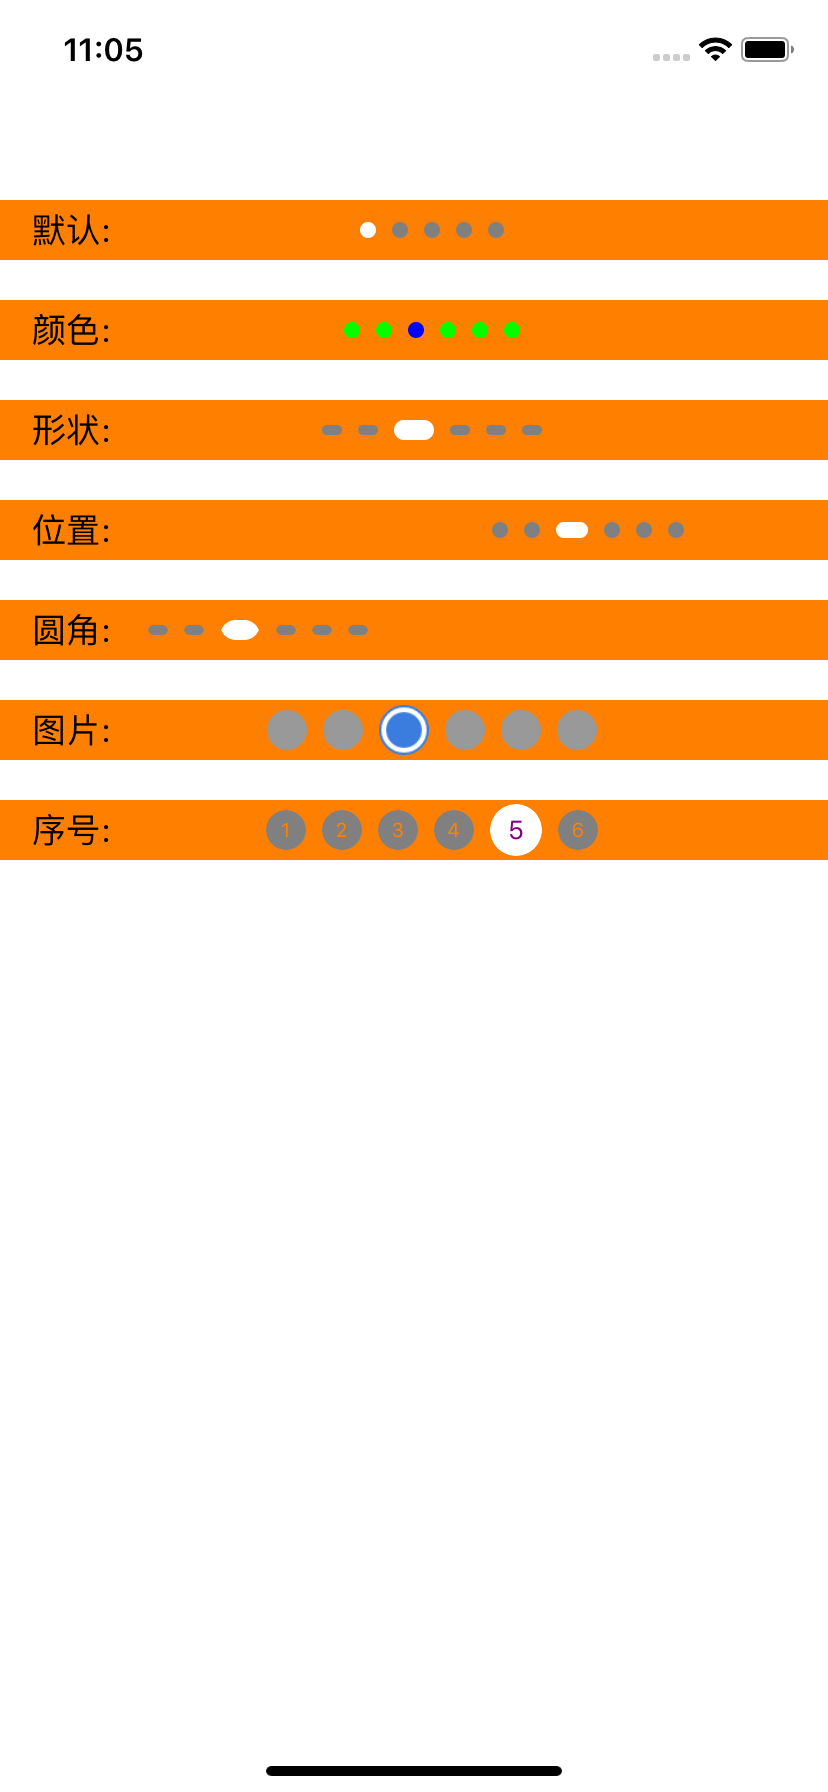
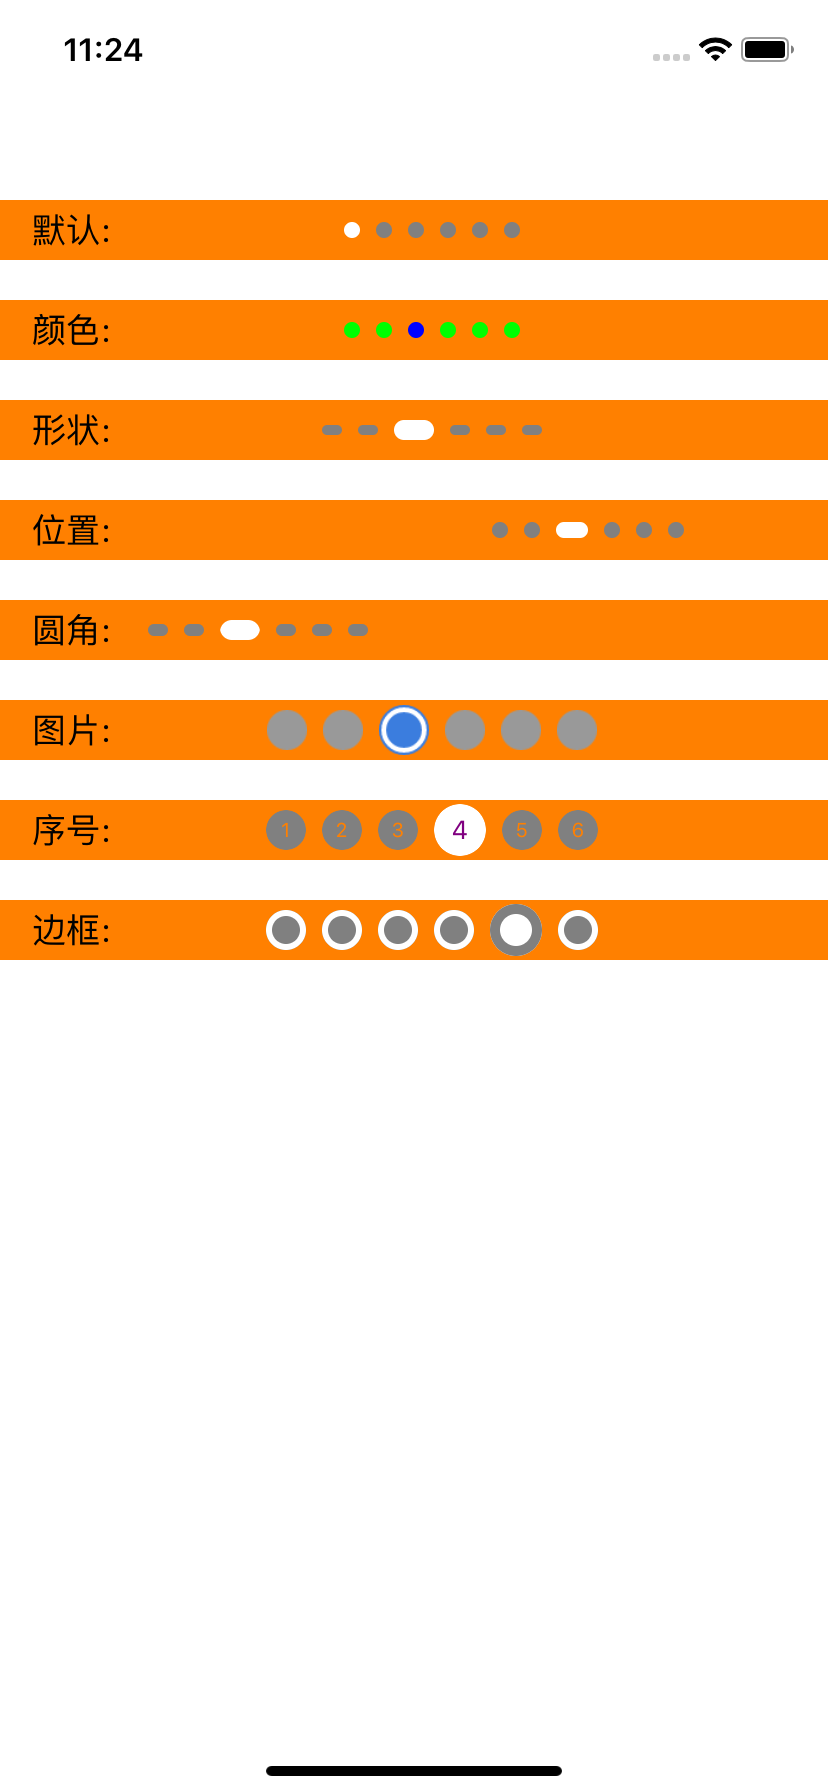
page添加边框的状态,形成同心圆效果

Changed region(s): [[0.0, 0.4375, 1.0, 0.5625], [0.4227, 0.125, 0.6341, 0.1562], [0.1208, 0.0, 0.1812, 0.0312]]

diff --git a/MZPageControl/MZPageControl/MZPageControl.m b/MZPageControl/MZPageControl/MZPageControl.m
@@ -43,11 +43,18 @@
     self.alignment = AlignmentCenter;
     self.pageIndicatorTintColor = [UIColor grayColor];
     self.currentPageIndicatorTintColor = [UIColor whiteColor];
+    
     self.showPageNumber = NO;
     self.pageNumberColor = [UIColor lightGrayColor];
     self.pageNumberFont = [UIFont systemFontOfSize:8.0];
     self.currentPageNumberColor = [UIColor blackColor];
     self.currentPageNumberFont = [UIFont systemFontOfSize:8.0];
+    
+    self.showPageBorder = NO;
+    self.pageBorderColor = [UIColor whiteColor];
+    self.pageBorderWidth = 1.0;
+    self.currentPageBorderColor = [UIColor grayColor];
+    self.currentPageBorderWidth = 1.0;
 }
 
 - (void)setNumberOfPages:(NSInteger)numberOfPages {
@@ -60,6 +67,7 @@
     [self changeColor];
     [self updateFrame];
     [self updatePageNumber];
+    [self updatePageBorder];
 }
 
 - (void)setPageSpacing:(CGFloat)pageSpacing {
@@ -137,6 +145,31 @@
 - (void)setCurrentPageNumberFont:(UIFont *)currentPageNumberFont {
     _currentPageNumberFont = currentPageNumberFont;
     [self updatePageNumber];
+}
+
+- (void)setShowPageBorder:(BOOL)showPageBorder {
+    _showPageBorder = showPageBorder;
+    [self updatePageBorder];
+}
+
+- (void)setPageBorderColor:(UIColor *)pageBorderColor {
+    _pageBorderColor = pageBorderColor;
+    [self updatePageBorder];
+}
+
+- (void)setPageBorderWidth:(CGFloat)pageBorderWidth {
+    _pageBorderWidth = pageBorderWidth;
+    [self updatePageBorder];
+}
+
+- (void)setCurrentPageBorderColor:(UIColor *)currentPageBorderColor {
+    _currentPageBorderColor = currentPageBorderColor;
+    [self updatePageBorder];
+}
+
+- (void)setCurrentPageBorderWidth:(CGFloat)currentPageBorderWidth {
+    _currentPageBorderWidth = currentPageBorderWidth;
+    [self updatePageBorder];
 }
 
 - (void)setupPages {
@@ -248,6 +281,16 @@
         numberLbl.frame = CGRectMake(0, 0, [self getFrame:i].size.width, [self getFrame:i].size.height);
         numberLbl.textColor = i == self.currentPage ? self.currentPageNumberColor : self.pageNumberColor;
         numberLbl.font = i == self.currentPage ? self.currentPageNumberFont : self.pageNumberFont;
+    }
+}
+
+- (void)updatePageBorder {
+    if (self.showPageBorder) {
+        for (NSInteger i = 0; i < self.pages.count; i++) {
+            UIImageView *imageView = (UIImageView *)self.pages[i];
+            imageView.layer.borderColor = i == self.currentPage ? self.currentPageBorderColor.CGColor : self.pageBorderColor.CGColor;
+            imageView.layer.borderWidth = i == self.currentPage ? self.currentPageBorderWidth : self.pageBorderWidth;
+        }
     }
 }
 

diff --git a/MZPageControl/ViewController.m b/MZPageControl/ViewController.m
@@ -26,7 +26,7 @@
     demo1Lbl.text = @"默认:";
     [demo1View addSubview:demo1Lbl];
     MZPageControl *demo1PageControl = [[MZPageControl alloc] initWithFrame:CGRectMake(66, 0, 300, 30)];
-    demo1PageControl.numberOfPages = 5;
+    demo1PageControl.numberOfPages = 6;
     demo1PageControl.currentPage = 0;
     [demo1View addSubview:demo1PageControl];
     
@@ -79,10 +79,10 @@
     demo5PageControl.numberOfPages = 6;
     demo5PageControl.currentPage = 2;
     demo5PageControl.alignment = AlignmentLeft;
-    demo5PageControl.pageSize = CGSizeMake(10, 5);
+    demo5PageControl.pageSize = CGSizeMake(10, 6);
     demo5PageControl.currentPageSize = CGSizeMake(20, 10);
     demo5PageControl.pageCornerRadius = 3;
-    demo5PageControl.currentPageCornerRadius = 8;
+    demo5PageControl.currentPageCornerRadius = 6;
     [demo5View addSubview:demo5PageControl];
     
     UIView *demo6View = [[UIView alloc] initWithFrame:CGRectMake(0, 350, self.view.frame.size.width, 30)];
@@ -119,7 +119,26 @@
     demo7PageControl.pageNumberFont = [UIFont systemFontOfSize:10];
     demo7PageControl.currentPageNumberFont = [UIFont systemFontOfSize:13];
     [demo7View addSubview:demo7PageControl];
+    
+    UIView *demo8View = [[UIView alloc] initWithFrame:CGRectMake(0, 450, self.view.frame.size.width, 30)];
+    demo8View.backgroundColor = [UIColor orangeColor];
+    [self.view addSubview:demo8View];
+    UILabel *demo8Lbl = [[UILabel alloc] initWithFrame:CGRectMake(16, 0, 50, 30)];
+    demo8Lbl.text = @"边框:";
+    [demo8View addSubview:demo8Lbl];
+    MZPageControl *demo8PageControl = [[MZPageControl alloc] initWithFrame:CGRectMake(66, 0, 300, 30)];
+    demo8PageControl.numberOfPages = 6;
+    demo8PageControl.currentPage = 2;
+    demo8PageControl.pageSize = CGSizeMake(20, 20);
+    demo8PageControl.currentPageSize = CGSizeMake(26, 26);
+    demo8PageControl.pageCornerRadius = 10;
+    demo8PageControl.currentPageCornerRadius = 13;
+    demo8PageControl.showPageBorder = YES;
+    demo8PageControl.pageBorderColor = [UIColor whiteColor];
+    demo8PageControl.currentPageBorderColor = [UIColor grayColor];
+    demo8PageControl.pageBorderWidth = 3;
+    demo8PageControl.currentPageBorderWidth = 5;
+    [demo8View addSubview:demo8PageControl];
 }
-
 
 @end

diff --git a/MZPageControl/MZPageControl/MZPageControl.h b/MZPageControl/MZPageControl/MZPageControl.h
@@ -54,6 +54,16 @@ typedef NS_ENUM(NSUInteger, MZPageControlAlignment) {
 @property (nonatomic, strong) UIFont *currentPageNumberFont;
 /// 点击page的回调
 @property (nonatomic, copy) void(^pageClickBlock)(NSInteger index);
+/// 是否显示page的边框
+@property (nonatomic, assign) BOOL showPageBorder;
+/// page的边框宽度
+@property (nonatomic, assign) CGFloat pageBorderWidth;
+/// page的边框颜色
+@property (nonatomic, strong) UIColor *pageBorderColor;
+/// 当前page的边框宽度
+@property (nonatomic, assign) CGFloat currentPageBorderWidth;
+/// 当前page的边框颜色
+@property (nonatomic, strong) UIColor *currentPageBorderColor;
 
 @end
 

diff --git a/README.md b/README.md
@@ -7,6 +7,8 @@
 
 实现：
 
+默认的状态
+
     UIView *demo1View = [[UIView alloc] initWithFrame:CGRectMake(0, 100, self.view.frame.size.width, 30)];
     demo1View.backgroundColor = [UIColor orangeColor];
     [self.view addSubview:demo1View];
@@ -14,10 +16,12 @@
     demo1Lbl.text = @"默认:";
     [demo1View addSubview:demo1Lbl];
     MZPageControl *demo1PageControl = [[MZPageControl alloc] initWithFrame:CGRectMake(66, 0, 300, 30)];
-    demo1PageControl.numberOfPages = 5;
+    demo1PageControl.numberOfPages = 6;
     demo1PageControl.currentPage = 0;
     [demo1View addSubview:demo1PageControl];
-    
+
+修改颜色的状态
+
     UIView *demo2View = [[UIView alloc] initWithFrame:CGRectMake(0, 150, self.view.frame.size.width, 30)];
     demo2View.backgroundColor = [UIColor orangeColor];
     [self.view addSubview:demo2View];
@@ -30,7 +34,9 @@
     demo2PageControl.pageIndicatorTintColor = [UIColor greenColor];
     demo2PageControl.currentPageIndicatorTintColor = [UIColor blueColor];
     [demo2View addSubview:demo2PageControl];
-    
+
+修改形状的状态
+
     UIView *demo3View = [[UIView alloc] initWithFrame:CGRectMake(0, 200, self.view.frame.size.width, 30)];
     demo3View.backgroundColor = [UIColor orangeColor];
     [self.view addSubview:demo3View];
@@ -43,7 +49,9 @@
     demo3PageControl.pageSize = CGSizeMake(10, 5);
     demo3PageControl.currentPageSize = CGSizeMake(20, 10);
     [demo3View addSubview:demo3PageControl];
-    
+
+修改位置的状态
+
     UIView *demo4View = [[UIView alloc] initWithFrame:CGRectMake(0, 250, self.view.frame.size.width, 30)];
     demo4View.backgroundColor = [UIColor orangeColor];
     [self.view addSubview:demo4View];
@@ -56,7 +64,9 @@
     demo4PageControl.alignment = AlignmentRight;
     demo4PageControl.currentPageSize = CGSizeMake(16, 8);
     [demo4View addSubview:demo4PageControl];
-    
+
+修改圆角的状态
+
     UIView *demo5View = [[UIView alloc] initWithFrame:CGRectMake(0, 300, self.view.frame.size.width, 30)];
     demo5View.backgroundColor = [UIColor orangeColor];
     [self.view addSubview:demo5View];
@@ -67,12 +77,14 @@
     demo5PageControl.numberOfPages = 6;
     demo5PageControl.currentPage = 2;
     demo5PageControl.alignment = AlignmentLeft;
-    demo5PageControl.pageSize = CGSizeMake(10, 5);
+    demo5PageControl.pageSize = CGSizeMake(10, 6);
     demo5PageControl.currentPageSize = CGSizeMake(20, 10);
     demo5PageControl.pageCornerRadius = 3;
-    demo5PageControl.currentPageCornerRadius = 8;
+    demo5PageControl.currentPageCornerRadius = 6;
     [demo5View addSubview:demo5PageControl];
-    
+
+将图片作为page的状态
+
     UIView *demo6View = [[UIView alloc] initWithFrame:CGRectMake(0, 350, self.view.frame.size.width, 30)];
     demo6View.backgroundColor = [UIColor orangeColor];
     [self.view addSubview:demo6View];
@@ -87,7 +99,9 @@
     demo6PageControl.pageImage = [UIImage imageNamed:@"home_icon_schedule_gary"];
     demo6PageControl.currentPageImage = [UIImage imageNamed:@"home_icon_schedule_current"];
     [demo6View addSubview:demo6PageControl];
-    
+
+添加序号的状态
+
     UIView *demo7View = [[UIView alloc] initWithFrame:CGRectMake(0, 400, self.view.frame.size.width, 30)];
     demo7View.backgroundColor = [UIColor orangeColor];
     [self.view addSubview:demo7View];
@@ -107,5 +121,27 @@
     demo7PageControl.pageNumberFont = [UIFont systemFontOfSize:10];
     demo7PageControl.currentPageNumberFont = [UIFont systemFontOfSize:13];
     [demo7View addSubview:demo7PageControl];
+
+添加边框的状态,形成同心圆效果
+
+    UIView *demo8View = [[UIView alloc] initWithFrame:CGRectMake(0, 450, self.view.frame.size.width, 30)];
+    demo8View.backgroundColor = [UIColor orangeColor];
+    [self.view addSubview:demo8View];
+    UILabel *demo8Lbl = [[UILabel alloc] initWithFrame:CGRectMake(16, 0, 50, 30)];
+    demo8Lbl.text = @"边框:";
+    [demo8View addSubview:demo8Lbl];
+    MZPageControl *demo8PageControl = [[MZPageControl alloc] initWithFrame:CGRectMake(66, 0, 300, 30)];
+    demo8PageControl.numberOfPages = 6;
+    demo8PageControl.currentPage = 2;
+    demo8PageControl.pageSize = CGSizeMake(20, 20);
+    demo8PageControl.currentPageSize = CGSizeMake(26, 26);
+    demo8PageControl.pageCornerRadius = 10;
+    demo8PageControl.currentPageCornerRadius = 13;
+    demo8PageControl.showPageBorder = YES;
+    demo8PageControl.pageBorderColor = [UIColor whiteColor];
+    demo8PageControl.currentPageBorderColor = [UIColor grayColor];
+    demo8PageControl.pageBorderWidth = 3;
+    demo8PageControl.currentPageBorderWidth = 5;
+    [demo8View addSubview:demo8PageControl];
 
 
